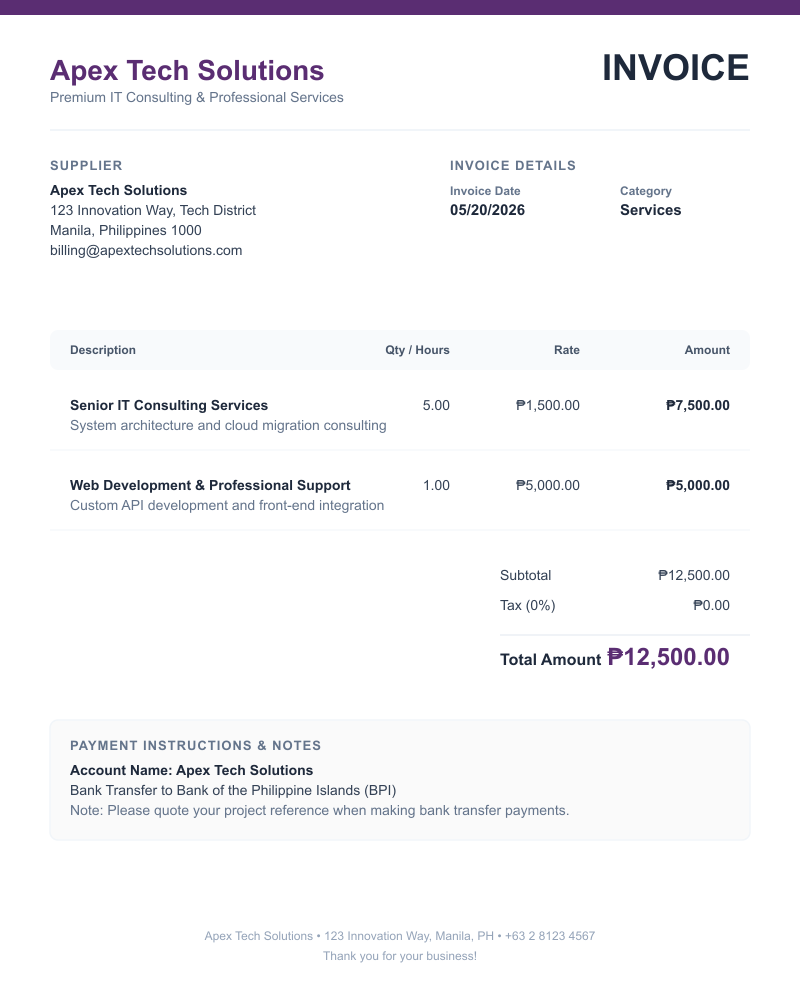
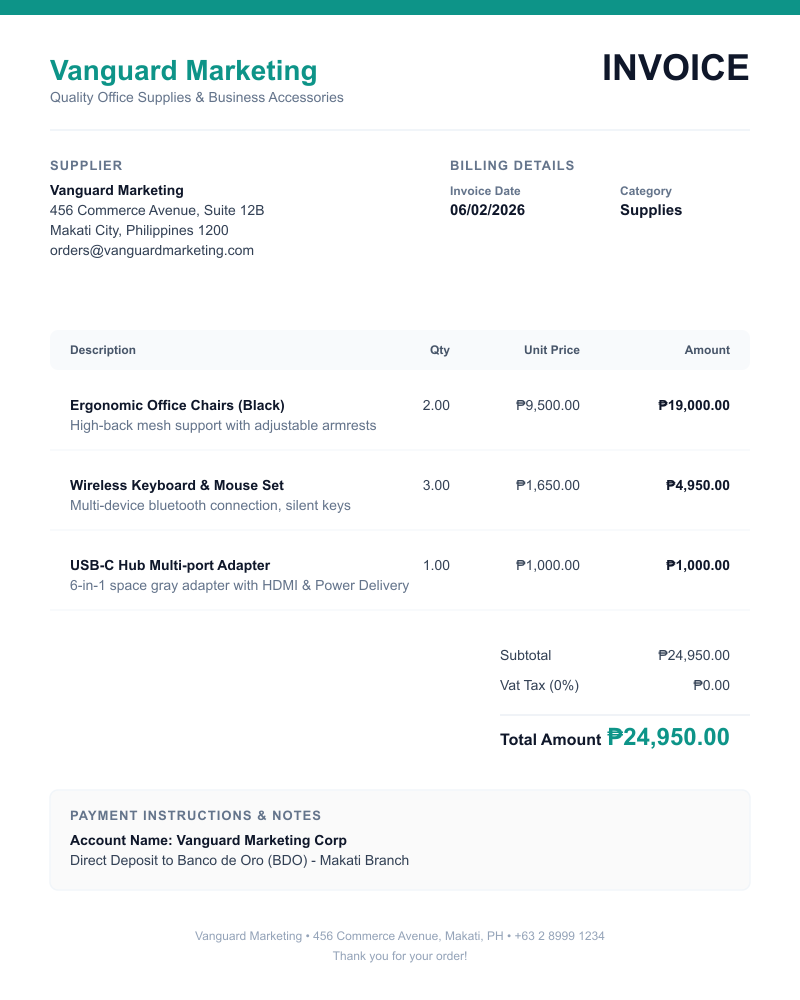
feat: redesign pending mock invoice, improve OCR parser accuracy, clean up UI cards & scripts

diff --git a/server/src/controllers/invoice.controller.js b/server/src/controllers/invoice.controller.js
@@ -41,9 +41,10 @@ async function runOcrOnUrl(url) {
 function parseInvoiceFields(rawText) {
   const lines = rawText.split('\n').map(l => l.trim()).filter(Boolean);
 
+  // LOOP BY PATTERN FIRST (Prioritize more specific patterns across the entire document first)
   const find = (patterns) => {
-    for (const line of lines) {
-      for (const pattern of patterns) {
+    for (const pattern of patterns) {
+      for (const line of lines) {
         const m = line.match(pattern);
         if (m?.[1]) return m[1].trim();
       }
@@ -51,8 +52,16 @@ function parseInvoiceFields(rawText) {
     return null;
   };
 
+  const formatDateLocal = (date) => {
+    const yyyy = date.getFullYear();
+    const mm = String(date.getMonth() + 1).padStart(2, '0');
+    const dd = String(date.getDate()).padStart(2, '0');
+    return `${yyyy}-${mm}-${dd}`;
+  };
+
   // 1. Smart Invoice Number Parser
   const invoiceNumber = find([
+    /\b(INV-\d{4}-\d{3,4})\b/i,                                  // Match specific INV-YYYY-XXX shape first
     /invoice\s*(?:no\.?|number|#)[:\s]*([A-Z0-9\-]+)/i,          // Handles 'Invoice #INV-2026-089' or 'Invoice: INV-123'
     /inv\s*(?:no\.?|number|#)[:\s]*([A-Z0-9\-]+)/i,              // Handles 'INV-2026-089'
     /(?:no\.?|number|#)[:\s]*([A-Z0-9\-]{4,20})/i                // Fallback for general short alphanumeric IDs
@@ -68,7 +77,6 @@ function parseInvoiceFields(rawText) {
   ]);
 
   // Fallback: If no explicit tag, scan the header.
-  // We clean up common OCR mistakes like 'A ApexTe INVOICE' -> 'Apex Tech Solutions'
   if (!supplierName) {
     for (const line of lines) {
       if (/apex\s*tech/i.test(line)) {
@@ -95,11 +103,10 @@ function parseInvoiceFields(rawText) {
 
   if (rawDateStr) {
     try {
-      // Standardize spacing (e.g., 'May 20,2026' -> 'May 20, 2026')
       const sanitized = rawDateStr.replace(/,(\d)/, ', $1');
       const d = new Date(sanitized);
       if (!isNaN(d.getTime())) {
-        parsedDate = d.toISOString().split('T')[0];
+        parsedDate = formatDateLocal(d);
       }
     } catch (e) {}
   }
@@ -117,20 +124,54 @@ function parseInvoiceFields(rawText) {
       const sanitized = rawDueDateStr.replace(/,(\d)/, ', $1');
       const d = new Date(sanitized);
       if (!isNaN(d.getTime())) {
-        parsedDueDate = d.toISOString().split('T')[0];
+        parsedDueDate = formatDateLocal(d);
       }
     } catch (e) {}
+  }
+
+  // Fallback: If dates are split across columns, scan the full text for dates
+  const dateRegex = /\b\d{1,2}[\/-]\d{1,2}[\/-]\d{2,4}\b/g;
+  const allDates = [...rawText.matchAll(dateRegex)].map(m => m[0]);
+
+  if (allDates.length > 0) {
+    const parseSingleDate = (str) => {
+      try {
+        const d = new Date(str);
+        return !isNaN(d.getTime()) ? formatDateLocal(d) : null;
+      } catch (e) {
+        return null;
+      }
+    };
+
+    if (!parsedDate) {
+      parsedDate = parseSingleDate(allDates[0]);
+    }
+    if (!parsedDueDate && allDates.length > 1) {
+      parsedDueDate = parseSingleDate(allDates[1]);
+    }
   }
 
   // 4. Smart Total Amount Parser
   let parsedAmount = null;
   
-  // Try searching lines for Total Amount / PHP values
-  const rawAmountStr = find([
-    /(?:total\s*amount|total|amount due|balance due|grand total)[:\s]*(?:PHP|₱|\$)?[\s]*([\d,]+\.\d{2})/i,
-    /(?:total\s*amount|total|amount due|balance due|grand total)\s+(?:PHP|₱|\$)?[\s]*([\d,]+\.\d{2})/i,  // Handles 'TOTAL AMOUNT PHP 14,000.00'
+  // We search bottom-to-top first to get the grand total instead of line items or subtotal
+  const reversedLines = [...lines].reverse();
+  const findReversed = (patterns) => {
+    for (const pattern of patterns) {
+      for (const line of reversedLines) {
+        const m = line.match(pattern);
+        if (m?.[1]) return m[1].trim();
+      }
+    }
+    return null;
+  };
+
+  // Try searching lines for Total Amount / PHP values (with loose currency symbol matching to support OCR mismatches like 'P')
+  const rawAmountStr = findReversed([
+    /(?:total\s*amount|total|amount due|balance due|grand total)[:\s]*(?:[A-Z]{1,3}|₱|£|\$|P)?[\s]*([\d,]+\.\d{2})/i,
+    /(?:total\s*amount|total|amount due|balance due|grand total)\s+(?:[A-Z]{1,3}|₱|£|\$|P)?[\s]*([\d,]+\.\d{2})/i,  // Handles 'TOTAL AMOUNT PHP 14,000.00'
     /subtotal\s*\|\s*([\d,]+\.\d{2})/i,                                                                  // Fallback to subtotal
-    /(?:PHP|₱|\$)\s*([\d,]+\.\d{2})\s*$/im
+    /(?:[A-Z]{1,3}|₱|£|\$|P)\s*([\d,]+\.\d{2})\s*$/im
   ]);
 
   if (rawAmountStr) {

diff --git a/client/src/pages/UploadPage.jsx b/client/src/pages/UploadPage.jsx
@@ -114,41 +114,13 @@ export default function UploadPage() {
         <div className="max-w-[1000px] mx-auto space-y-8">
           
           {/* Title Section */}
-          <div className="px-1 flex flex-col sm:flex-row sm:items-center sm:justify-between gap-4">
-            <div>
-              <h2 style={{ fontFamily: "'Playfair Display', Georgia, serif" }} className="text-[28px] font-bold text-slate-900 tracking-tight mb-2">
-                Upload Invoice Or Receipt
-              </h2>
-              <p className="text-[14px] text-slate-400 font-medium">
-                AI-Powered OCR Extracts All Fields Automatically. Supported: JPG, PNG, PDF (Max 10 MB).
-              </p>
-            </div>
-            
-            {/* Quick Test Files Download Box */}
-            <div className="bg-[#FFFBEB] border border-[#F59E0B]/30 rounded-[16px] p-3.5 flex flex-col gap-2.5 shadow-sm max-w-xs w-full sm:w-auto">
-              <div className="flex items-center gap-2">
-                <FileText size={15} className="text-[#D97706]" />
-                <span className="text-[12.5px] font-bold text-[#D97706]">Demo Sandbox Files</span>
-              </div>
-              <div className="flex flex-col gap-2">
-                <a 
-                  href="/invoice_sample.png" 
-                  download="invoice_sample.png"
-                  className="bg-white hover:bg-slate-50 border border-[#F59E0B]/20 rounded-[10px] py-1.5 px-3 flex items-center justify-between text-[11px] font-bold text-slate-700 transition-colors shadow-sm"
-                >
-                  <span>✓ Complete Invoice (Verified)</span>
-                  <span className="text-[9px] text-[#2D7A4F] bg-[#E6F4EA] px-1.5 py-0.5 rounded font-extrabold ml-2">Clean</span>
-                </a>
-                <a 
-                  href="/invoice_pending_sample.png" 
-                  download="invoice_pending_sample.png"
-                  className="bg-white hover:bg-slate-50 border border-[#F59E0B]/20 rounded-[10px] py-1.5 px-3 flex items-center justify-between text-[11px] font-bold text-slate-700 transition-colors shadow-sm"
-                >
-                  <span>✗ Missing Fields (Pending)</span>
-                  <span className="text-[9px] text-[#B7791F] bg-[#FFFBEB] px-1.5 py-0.5 rounded font-extrabold border border-[#E5C88A]/50 ml-2">Pending</span>
-                </a>
-              </div>
-            </div>
+          <div className="px-1">
+            <h2 style={{ fontFamily: "'Playfair Display', Georgia, serif" }} className="text-[28px] font-bold text-slate-900 tracking-tight mb-2">
+              Upload Invoice Or Receipt
+            </h2>
+            <p className="text-[14px] text-slate-400 font-medium">
+              AI-Powered OCR Extracts All Fields Automatically. Supported: JPG, PNG, PDF (Max 10 MB).
+            </p>
           </div>
 
           {/* Upload Dropzone Card */}
